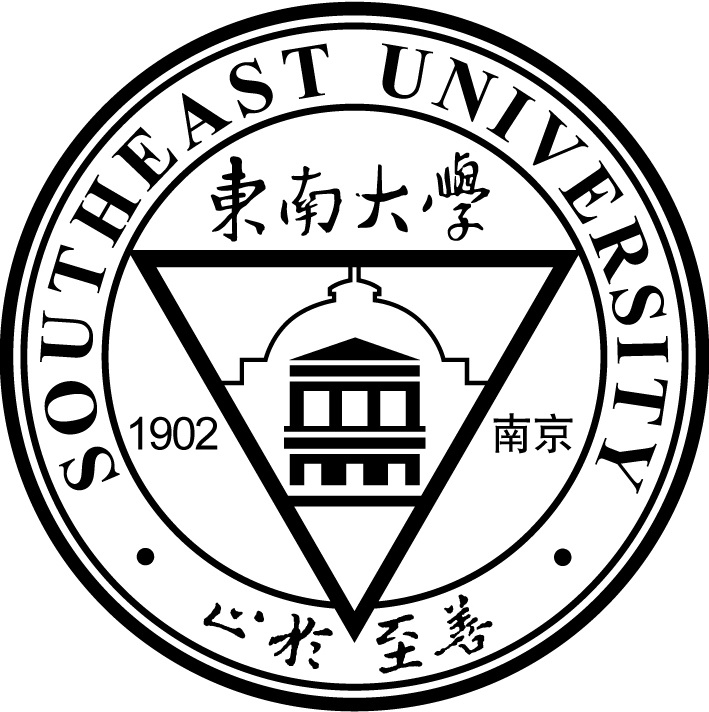
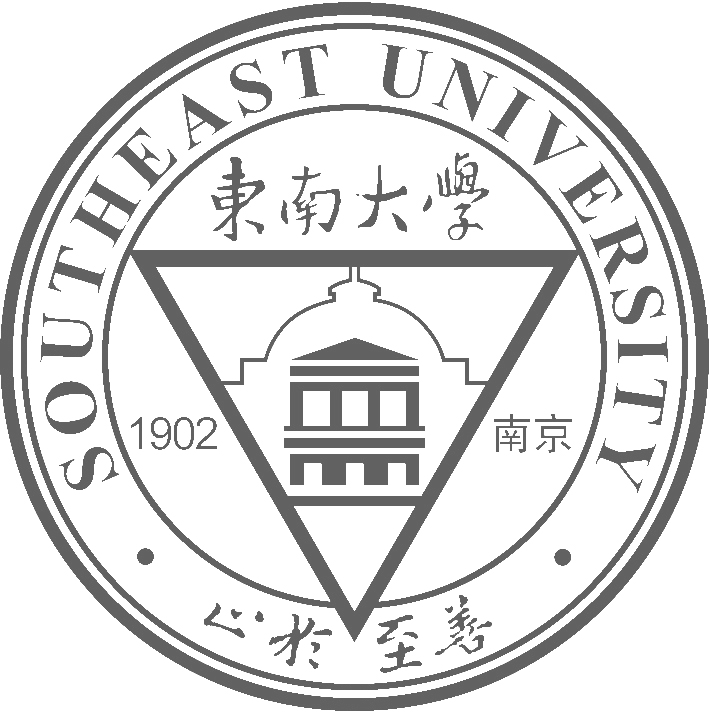
finish the seu_history.html, only need to adjust the font

diff --git a/seu_history.html b/seu_history.html
@@ -8,9 +8,52 @@
 </head>
 
 <body>
-	<div class="container-fluid" style = "background: url(./images/seu_mark_bin.jpg) no-repeat; text-align: center">
-		<h1 style = "text-align: center">东南大学历史</h1>
-		<p style = "text-align: center; font-size: 50px">sldkjflsjdlfdlflsdfjldsfsdlkffjldsjflsdjfljdd<br><br><br><br><br><br></p>
+	
+	<!-- Navigation Starts Here ---->
+		<!-- top-nav -->
+		<div class="top-nav">
+			<nav>
+				<ul style = "background: #FDD101;">
+					<li><a href = "./seu.html">
+						<img src = "images/seu_logo.gif" style = "height: 100px; width: auto"/>
+						</a>
+					</li>
+				</ul>
+			</nav>
+		</div>
+		<!-- top-nav -->
+		<div class = "container-fluid" style = "background:#D9B405; height: 50px"></div>
+	<!--- Navigarion Ends Here --->
+	<div class = "container-fluid" style = "background: url(./images/seu_mark_trans.gif) no-repeat;">
+	<div class="container" style = "text-align: center">
+		<h1 style = "text-align: center; color:black">东南大学历史</h1>
+		<h2>三江、两江优级师范学堂(1902-1912)</h2>
+		<p style = "text-align: left; font-size: 25px; color:black;">东南大学于１９０２年建校以来，几经风雨，几番离合，几度兴衰，从三江、两江优级师范学堂、南京高等师范学校，到２０年代的东南大学、第四中山大学、江苏大学、国立中央大学，再到解放后的国立南京大学、南京工学院，后又于１９８８年再度更名为东南大学。</p>
+		<hr>
+		<p style = "text-align: left; font-size: 25px; color:black;">1902年5月，两江总督刘坤一上奏折“筹备师范学堂折”；1903年2月，继任两江总督的张之洞呈《创办三江师范学堂奏折》。1903年9月，三江师范学堂挂牌开办，1904年招生开学。</p>
+		<hr>
+		<p style = "text-align: left; font-size: 25px; color:black;">学堂下设学科·理化科（后称理化数学部）·农学博物科（后称博物农学部）·历史舆地科·手工图画科</p>
+		<hr>
+		<h2>南京高等师范学校（1915-1923）</h2>
+		<p style = "text-align: left; font-size: 25px; color:black;">1914年8月，江苏省巡按使（即省长）韩国钧委任原江苏省教育司司长江谦为南京高等师范学校校长，在两江师范学堂原址筹建。江谦遂于1915年1月就职。学校下设8个科·文理科（下设8个系：图文系，英文系，哲学系，历史系，数学系，物理系，化学系）·工艺专修科·农业专修科商业专修科·教育专修科·体育专修科·国文专修科·英文专修科</p>
+		<hr>
+		<h2>国立东南大学(1921-1927)</h2>
+		<p style = "text-align: left; font-size: 25px; color:black;">1920年4月，郭秉文在校务会上提出，在南京高等师范的基础上创办一所国立大学议案，与会委员一致赞同。1921年7月13日，教育部核准《东南大学组织大纲》，8月24日～26日，东南大学预科、南京高等师范本科同时招生。8月27日，教育部核准郭秉文博士任东南大学校长。</p>
+		<hr>
+		<h2>第四中山大学(1927-1928.2)</h2>
+		<p style = "text-align: left; font-size: 25px; color:black;">927年，国民政府教育行政委员会改革教育管理制度，提出并试验“大学院”和“大学区制”。依省份划为若干大学区，按北伐进军的序次，命名为第一中山大学（广东），第二中山大学（湖北），第三中山大学（浙江），第四中山大学（江苏）……。国立第四中山大学是在东南大学基础上，同河海大学、江苏政法大学、江苏医科大学、南京工业专门学校、南京第一农业专门学校、南京商业专门学校、苏州工业专门学校和上海医科大学等八校联合组建。</p>
+		<hr>
+		<h2>江苏大学(1928.2-1928.4)</h2>
+		<p style = "text-align: left; font-size: 25px; color:black;">由于中山大学不止一处，不易辨记，教育行政要人酝酿更改校名。1928年2月29日，第四中山大学奉训令改称江苏大学。改名江苏大学引起校名风潮。4月24日，大学委员会以大学院337号训令，将“江苏大学”改称为“国立中央大学”。</p>
+		<hr>
+		<h2>抗战胜利后的中央大学(1945-1949)</h2>
+		<p style = "text-align: left; font-size: 25px; color:black;">抗战胜利后，中央大学准备复员南京。1945年8月，教育部任吴有训为中央大学校长。1946年11月，中央大学在南京四牌楼复校开课。复校后的第一次招生盛况空前，报名者超过万人，录取学生千人。</p>
+	</div>
+	</div>
+	
+	<div class = "footer" style = "background:#FDD101">
+		<p style = "color: white;font-size: 20px">My email & weblog address</p>
+		<p class = "copyright">Copyright @ Ziqi Ye. All right reserved.</p>
 	</div>
 	
 </body>

diff --git a/seu.html b/seu.html
@@ -28,7 +28,7 @@
 	
 	
 	<header>
-		<div class = "container-fluid" style = "background:url(./images/seu.jpg) center; height: 300px; width: auto; ">
+		<div class = "container-fluid" style = "background:url(./images/seu.jpg) center;background-size: cover; height: 300px; width: auto; ">
 		</div>
 		<div class = "intro">
 			<div class = "container text-center">
@@ -49,6 +49,7 @@
 	<a href = "#history">click to see our history</a>
 	<a href = "#now">click to see the achievement we get nowadays</a>
 	
+	<hr>
 	<div class = "container" style = "margin-top: 100px; margin-bottom: 100px" id = "history">
 		<div class="row">
 			<div class = "col-md-3">
@@ -62,6 +63,7 @@
 		</div>
 	</div>
 	
+	<hr>
 	<div class = "container" style = "margin-top: 100px; margin-bottom: 100px" id = "now">
 		<div class="row">
 			<div class = "col-md-9">
